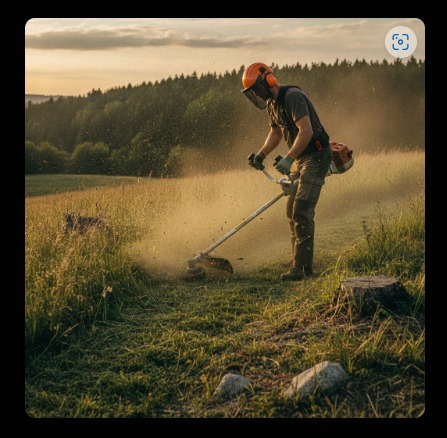
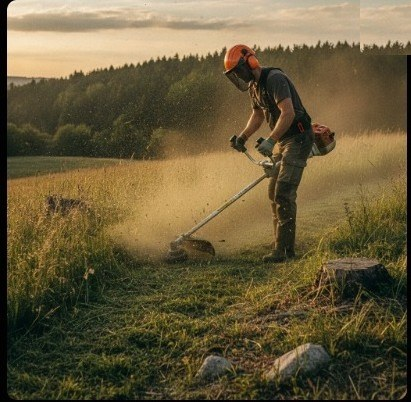
Show category photos on homepage cards; clean up brush cutter image
Homepage 'What We Offer' cards now show the actual category photo
as a thumbnail (Brush Cutters, Chainsaws, Blowers, Hedge Trimmers,
Lawn Mowers, Earth Augers) instead of just an emoji icon. Trimmers
and Spare Parts still use the icon until photos are provided.

Also cropped the black screenshot-frame border and a stray UI icon
out of the brush cutter photo, which was visible wherever that image
is used (homepage card, category hero, product page).

diff --git a/index.html b/index.html
@@ -51,40 +51,52 @@
       <p class="section-sub">A full range of equipment to keep your garden and property in top shape. Tap a category to see current stock and pricing.</p>
 
       <div class="product-grid" id="product-grid">
-        <a class="product-card" href="category.html?cat=brushcutters">
-          <span class="product-icon">✂️</span>
-          <h3>Brush Cutters</h3>
-          <p>Petrol brush cutters for clearing overgrowth and tough vegetation.</p>
+        <a class="product-card has-photo" href="category.html?cat=brushcutters">
+          <img class="product-card-photo" src="images/hero-brushcutter.jpg" alt="" loading="lazy">
+          <div class="product-card-body">
+            <h3>Brush Cutters</h3>
+            <p>Petrol brush cutters for clearing overgrowth and tough vegetation.</p>
+          </div>
         </a>
         <a class="product-card" href="category.html?cat=trimmers">
           <span class="product-icon">🌾</span>
           <h3>Trimmers</h3>
           <p>Line trimmers for clean, precise edges around beds and paths.</p>
         </a>
-        <a class="product-card" href="category.html?cat=chainsaws">
-          <span class="product-icon">🪚</span>
-          <h3>Chainsaws</h3>
-          <p>Reliable chainsaws for pruning, felling and firewood prep.</p>
+        <a class="product-card has-photo" href="category.html?cat=chainsaws">
+          <img class="product-card-photo" src="images/hero-chainsaw.jpg" alt="" loading="lazy" style="object-position: 50% 40%;">
+          <div class="product-card-body">
+            <h3>Chainsaws</h3>
+            <p>Reliable chainsaws for pruning, felling and firewood prep.</p>
+          </div>
         </a>
-        <a class="product-card" href="category.html?cat=blowers">
-          <span class="product-icon">🍃</span>
-          <h3>Blowers</h3>
-          <p>Handheld and backpack blowers for clearing leaves and debris.</p>
+        <a class="product-card has-photo" href="category.html?cat=blowers">
+          <img class="product-card-photo" src="images/hero-blower.jpg" alt="" loading="lazy" style="object-position: 50% 30%;">
+          <div class="product-card-body">
+            <h3>Blowers</h3>
+            <p>Handheld and backpack blowers for clearing leaves and debris.</p>
+          </div>
         </a>
-        <a class="product-card" href="category.html?cat=hedgetrimmers">
-          <span class="product-icon">🌳</span>
-          <h3>Hedge Trimmers</h3>
-          <p>Petrol and electric hedge trimmers for a sharp, even finish.</p>
+        <a class="product-card has-photo" href="category.html?cat=hedgetrimmers">
+          <img class="product-card-photo" src="images/hero-hedgetrimmer.jpg" alt="" loading="lazy" style="object-position: 50% 30%;">
+          <div class="product-card-body">
+            <h3>Hedge Trimmers</h3>
+            <p>Petrol and electric hedge trimmers for a sharp, even finish.</p>
+          </div>
         </a>
-        <a class="product-card" href="category.html?cat=mowers">
-          <span class="product-icon">🚜</span>
-          <h3>Lawn Mowers</h3>
-          <p>Push, self-propelled and ride-on mowers for gardens of every size.</p>
+        <a class="product-card has-photo" href="category.html?cat=mowers">
+          <img class="product-card-photo" src="images/hero-mowers.jpg" alt="" loading="lazy" style="object-position: 50% 60%;">
+          <div class="product-card-body">
+            <h3>Lawn Mowers</h3>
+            <p>Push, self-propelled and ride-on mowers for gardens of every size.</p>
+          </div>
         </a>
-        <a class="product-card" href="category.html?cat=earthaugers">
-          <span class="product-icon">🕳️</span>
-          <h3>Earth Augers</h3>
-          <p>Petrol earth augers for fast, effortless hole digging.</p>
+        <a class="product-card has-photo" href="category.html?cat=earthaugers">
+          <img class="product-card-photo" src="images/hero-earthauger.jpg" alt="" loading="lazy" style="object-position: 50% 20%;">
+          <div class="product-card-body">
+            <h3>Earth Augers</h3>
+            <p>Petrol earth augers for fast, effortless hole digging.</p>
+          </div>
         </a>
         <a class="product-card" href="category.html?cat=spareparts">
           <span class="product-icon">⚙️</span>

diff --git a/styles.css b/styles.css
@@ -204,6 +204,7 @@ a { color: inherit; text-decoration: none; }
   cursor: pointer;
   width: 100%;
   color: inherit;
+  overflow: hidden;
 }
 
 .product-card:hover, .product-card:focus-visible {
@@ -218,6 +219,17 @@ a { color: inherit; text-decoration: none; }
 }
 
 .product-card p { margin-bottom: 0; }
+
+.product-card.has-photo { padding: 0; }
+
+.product-card-photo {
+  display: block;
+  width: 100%;
+  height: 160px;
+  object-fit: cover;
+}
+
+.product-card-body { padding: 24px 28px 28px; }
 
 /* Service note */
 .service-note {